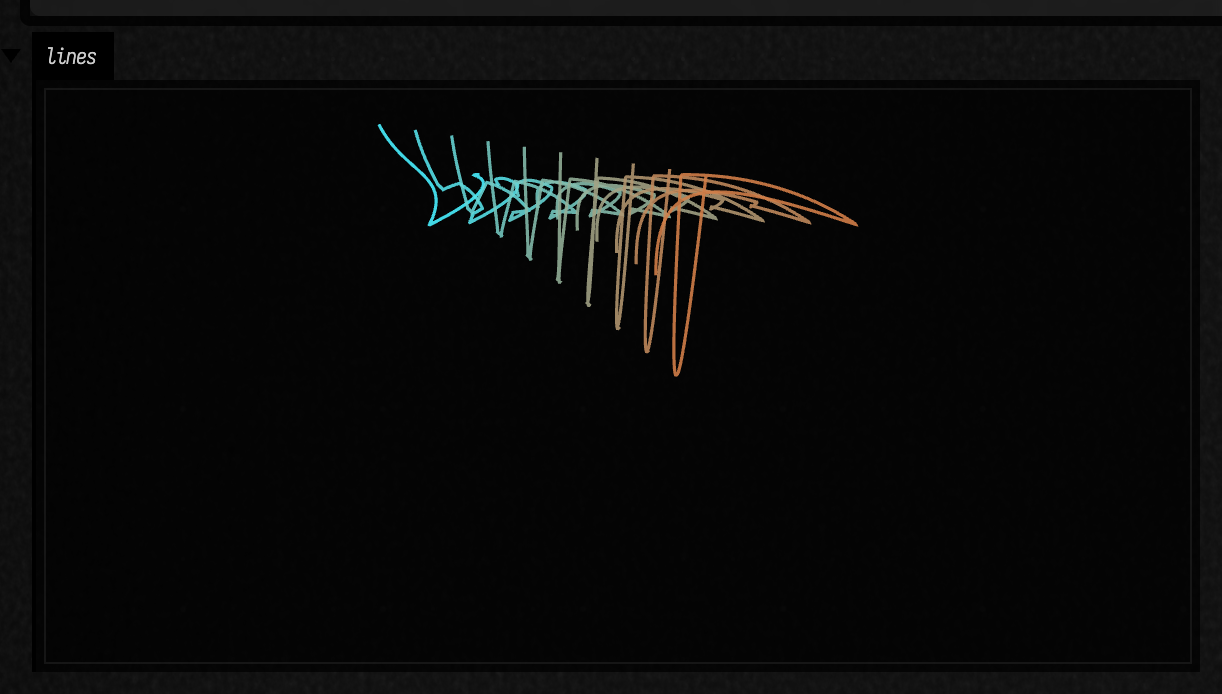
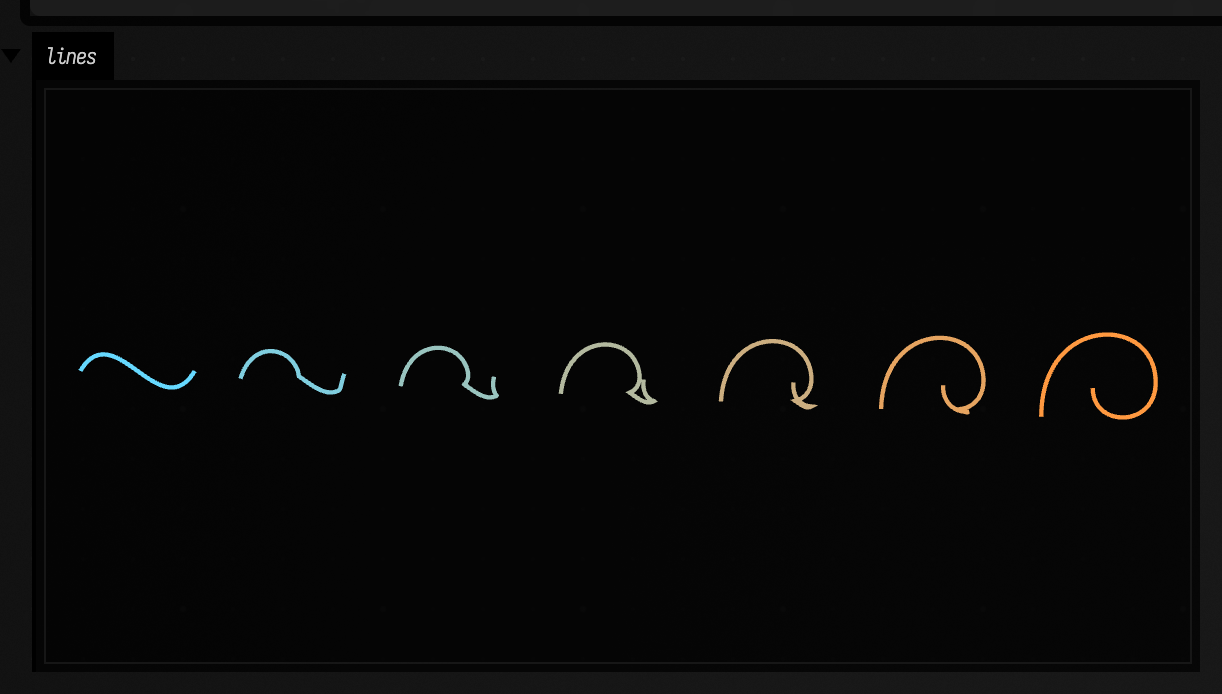
fline_examples: show FLineInterpolator morphs as a filmstrip
Both morph examples drew ten frames on top of each other, and the spin
example was nearly identical to the plain one. Lay the frames out left to
right, morph a simple S into a curl (different segment counts, so the
resampling is doing real work), and give the spin example a plain row above
the spun row so the depth change in the middle reads against it.

diff --git a/public/docs/fline_examples.md b/public/docs/fline_examples.md
@@ -2685,20 +2685,18 @@ fun FLineInterpolator.lineAt(
 
 ```diffstatic_runner {data-lang=kotlin screenshot="assets/flineinterpolator_vanilla.png" embed=true}
 :::static
+// An S that morphs into a curl. They have different numbers of segments:
+// the interpolator resamples both so that they can be matched point for point.
 val f = fline {
-    moveTo(0, 0)
-    cubicTo(10, 20, 30, 20, 20, 40)
-    cubicTo(60, 20, 30, 20, 40, 20)
-} * 3
+    moveTo(0, 50)
+    cubicTo(30, 0, 70, 100, 100, 50)
+}
 
 val f2 = fline {
-    moveTo(10, 60)
-    cubicTo(10, 20, 30, 20, 90, 40)
-    cubicTo(60, 20, 30, 20, 20, 20)
-    cubicTo(10, 200, 30, 20, 30, 20)
-} * 3 + vec(300, 0)
-
-val ii = FLineInterpolator(f, f2)
+    moveTo(0, 90)
+    cubicTo(0, 0, 100, 0, 100, 60)
+    cubicTo(100, 100, 45, 100, 45, 65)
+}
 
 fun ink(line: FLine, tint: Vec4, thick: Double) = line.apply {
     filled = false
@@ -2707,30 +2705,24 @@ fun ink(line: FLine, tint: Vec4, thick: Double) = line.apply {
     color = tint
 }
 
-val ghosts = [
-    ink(f.copy(), vec(0.78, 0.9, 1.0, 0.20), 1.8),
-    ink(f2.copy(), vec(1.0, 0.76, 0.52, 0.20), 1.8),
-]
+// blue at t = 0, through to orange at t = 1
+fun tint(t: Float) = vec(0.4 + 0.6 * t, 0.85 - 0.25 * t, 1.0 - 0.75 * t, 1.0)
 
-val frames =
-    (0 until 10).map { i ->
-        val t = i / 9f
-        ink(
-            ii.lineAt(t),
-            vec(
-                0.28 + i * 0.06,
-                0.94 - i * 0.05,
-                1.0 - i * 0.08,
-                0.88,
-            ),
-            3.0,
-        )
-    }
+val n = 7
+val step = 140.0
 
-lines(ghosts + frames, w = 560.0, h = 360.0, fitToSize = true)
+val ii = FLineInterpolator(f, f2)
+
+// One frame per column, left to right, rather than all of them on top of each other.
+val frames = (0 until n).map { i ->
+    val t = i / (n - 1f)
+    ink(ii.lineAt(t), tint(t), 3.0) + vec(i * step, 0.0)
+}
+
+lines(frames, w = 720.0, h = 160.0, fitToSize = true)
 ```
 
-This is the basic pattern: two contours in, one reusable interpolator out, then sample `lineAt(t)` as many times as you want.
+This is the basic pattern: two contours in, one reusable interpolator out, then sample `lineAt(t)` as many times as you want. The seven frames run from t = 0 (the S, blue) to t = 1 (the curl, orange).
 
 #### Spicy 1: rotation-aware matching
 
@@ -2830,20 +2822,34 @@ Left is the default midpoint. Right pre-aligns the shapes before correspondence 
 
 ```diffstatic_runner {data-lang=kotlin screenshot="assets/flineinterpolator_motion_spins.png" embed=true}
 :::static
+// An S that morphs into a curl. They have different numbers of segments:
+// the interpolator resamples both so that they can be matched point for point.
 val f = fline {
-    moveTo(0, 0)
-    cubicTo(10, 20, 30, 20, 20, 40)
-    cubicTo(60, 20, 30, 20, 40, 20)
-} * 3
+    moveTo(0, 50)
+    cubicTo(30, 0, 70, 100, 100, 50)
+}
 
 val f2 = fline {
-    moveTo(10, 60)
-    cubicTo(10, 20, 30, 20, 90, 40)
-    cubicTo(60, 20, 30, 20, 20, 20)
-    cubicTo(10, 200, 30, 20, 30, 20)
-} * 3 + vec(300, 0)
+    moveTo(0, 90)
+    cubicTo(0, 0, 100, 0, 100, 60)
+    cubicTo(100, 100, 45, 100, 45, 65)
+}
 
-val ii = FLineInterpolator(
+fun ink(line: FLine, tint: Vec4, thick: Double) = line.apply {
+    filled = false
+    stroked = true
+    thickness = thick
+    color = tint
+}
+
+// blue at t = 0, through to orange at t = 1
+fun tint(t: Float) = vec(0.4 + 0.6 * t, 0.85 - 0.25 * t, 1.0 - 0.75 * t, 1.0)
+
+val n = 7
+val step = 140.0
+
+val plain = FLineInterpolator(f, f2)
+val spun = FLineInterpolator(
     f,
     f2,
     FLineInterpolationConfig(
@@ -2855,47 +2861,23 @@ val ii = FLineInterpolator(
     ),
 )
 
-val shift = vec(28, 8, 0)
+// Both rows go through the same perspective camera, looking at the middle of the shapes.
+fun seen(line: FLine) = line.byPerspectiveProjecting(cameraPos = vec(50f, 50f, -400f))
 
-fun ink(line: FLine, tint: Vec4, thick: Double) = line.apply {
-    filled = false
-    stroked = true
-    thickness = thick
-    color = tint
+// Top row: the plain morph. Bottom row: the same morph with the spin.
+val frames = (0 until n).flatMap { i ->
+    val t = i / (n - 1f)
+    val at = vec(i * step, 0.0)
+    [
+        ink(seen(plain.lineAt(t)), vec(1.0, 1.0, 1.0, 0.45), 2.0) + at,
+        ink(seen(spun.lineAt(t)), tint(t), 3.0) + at + vec(0.0, 150.0),
+    ]
 }
 
-val frames =
-    (0 until 10).map { i ->
-        val t = i / 9f
-        ink(
-            ii.lineAt(t).byPerspectiveProjecting(cameraPos = vec(180f, 90f, -620f)) + shift,
-            vec(
-                0.24 + i * 0.07,
-                0.92 - i * 0.05,
-                1.0 - i * 0.08,
-                0.9,
-            ),
-            3.0,
-        )
-    }
-
-val ghosts = [
-    ink(
-        f.copy().byPerspectiveProjecting(cameraPos = vec(180f, 90f, -620f)) + shift,
-        vec(0.78, 0.9, 1.0, 0.18),
-        1.8,
-    ),
-    ink(
-        f2.copy().byPerspectiveProjecting(cameraPos = vec(180f, 90f, -620f)) + shift,
-        vec(1.0, 0.76, 0.52, 0.18),
-        1.8,
-    ),
-]
-
-lines(ghosts + frames, w = 460.0, h = 240.0, fitToSize = true)
+lines(frames, w = 720.0, h = 300.0, fitToSize = true)
 ```
 
-This is the same base demo, but with `spatialSpinAngle = 1f` in the interpolator config and a perspective projection on the evaluated lines. The source and target still land in the same places; the extra depth only appears in the middle of the morph.
+This is the same morph with `spatialSpinAngle = 1f` in the interpolator config, and both rows go through a perspective projection. The top row is the plain morph, for comparison. In the bottom row the first and last frames still match the source and target, and the spin turns the line away from the camera only in the middle of the morph.
 
 ### Circle fitting + subdivision
 
